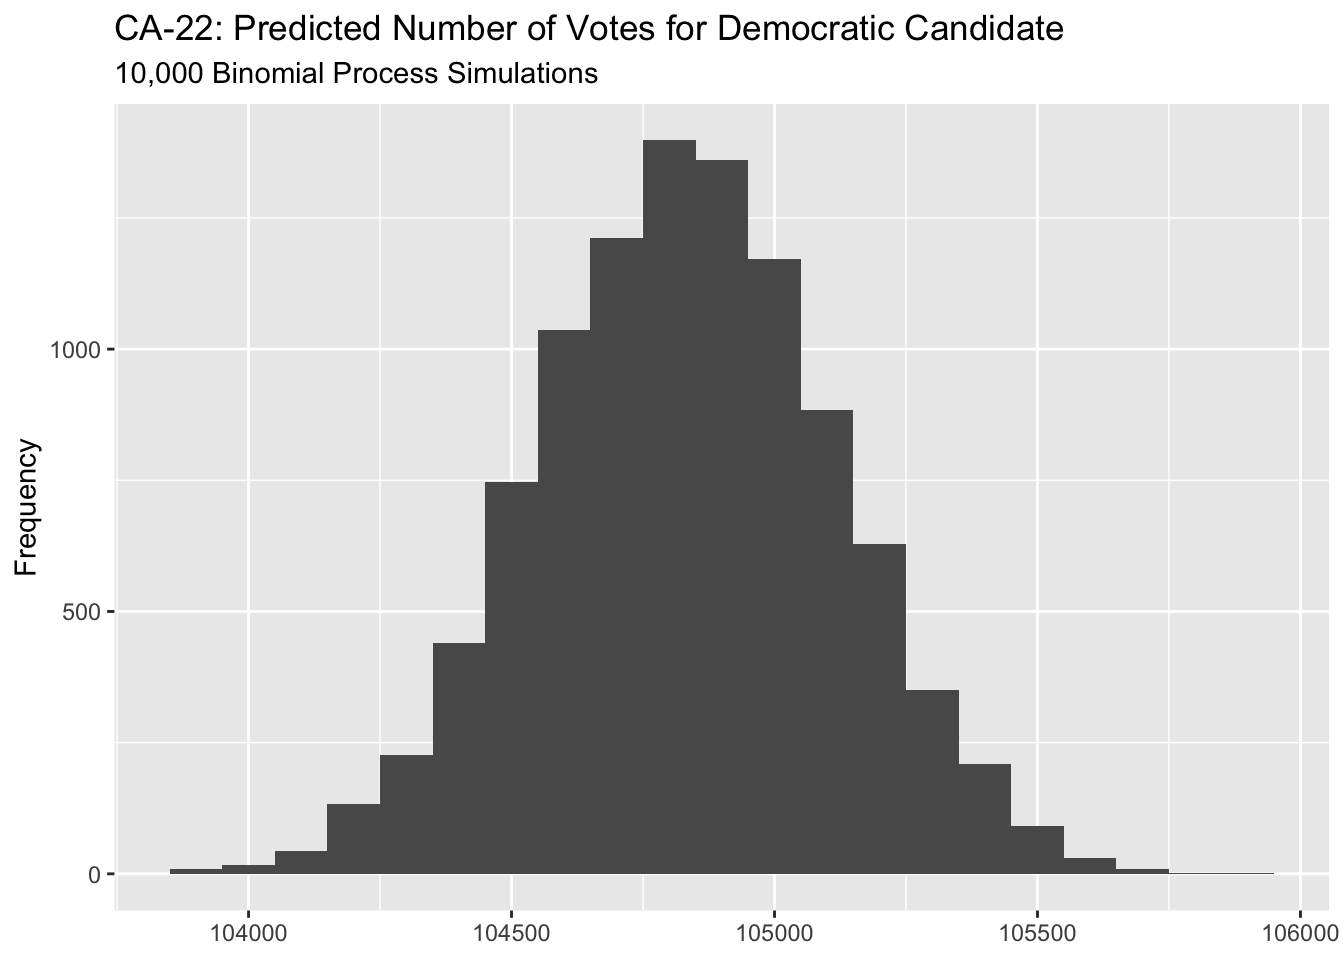
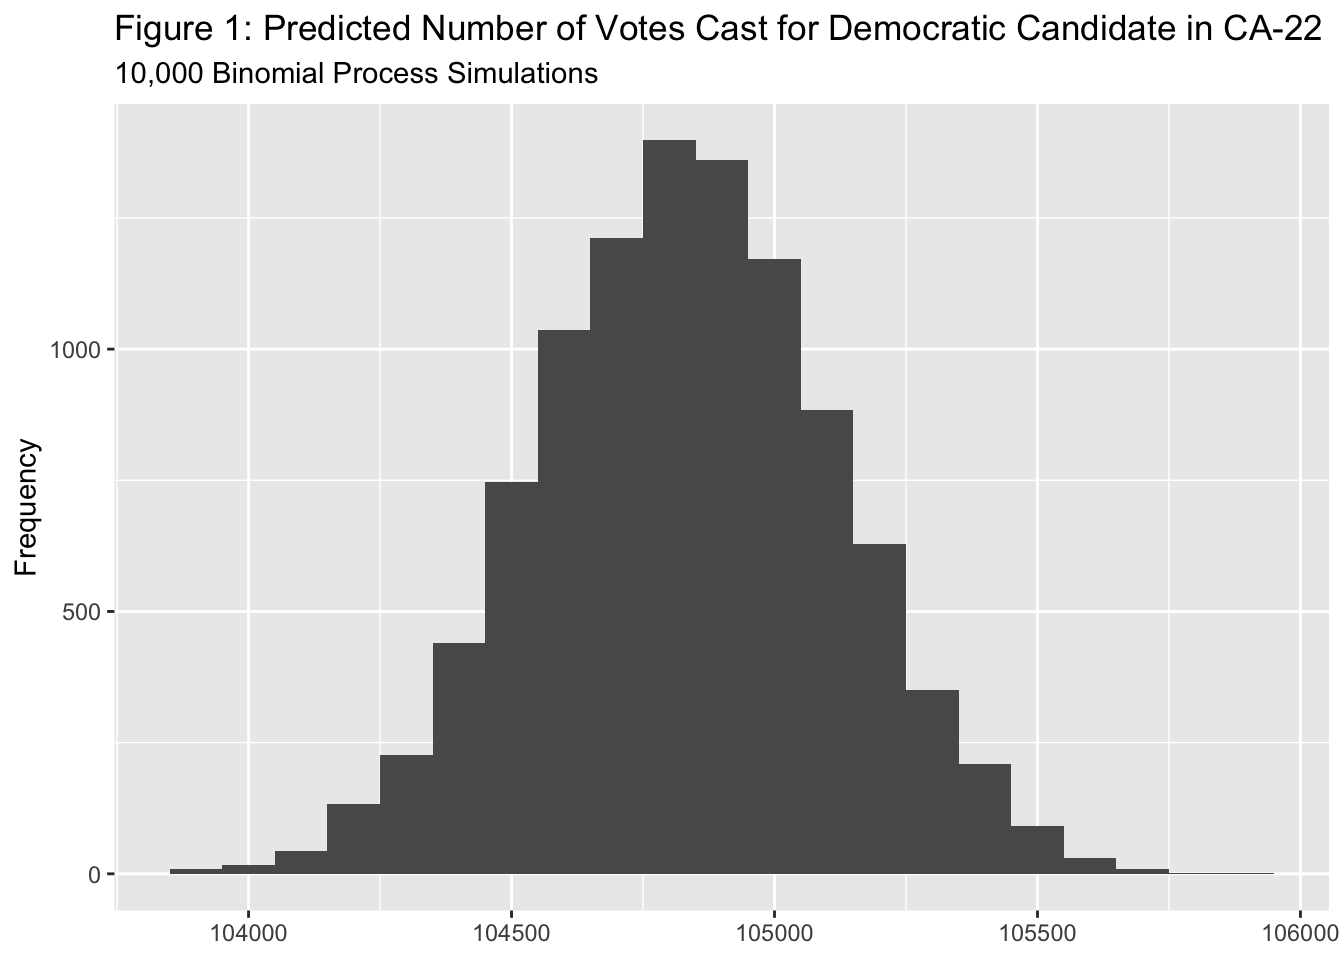
post 06

Changed region(s): [[0.0938, 0.0, 0.9688, 0.0625]]

diff --git a/content/posts/06-ground-game/index.html b/content/posts/06-ground-game/index.html
@@ -7,22 +7,49 @@ output: html_document
 
 
 
-<div id="predicted-number-of-democratic-seats" class="section level2">
-<h2>Predicted Number of Democratic Seats</h2>
-<p>The data on the volume of TV ads was retrieved from the data that was compiled by Kantar/CMAG and analyzed by the Wesleyan Media Project (2022). This dataset shows the volume of TV ads aired between September 19 and October 2 in 53 House districts.</p>
-<p>Ballotpedia (2022)</p>
+<div id="probabilistic-models" class="section level2">
+<h2>Probabilistic Models</h2>
+<p>In Blog Post 05, I built two models: in the first model, I predicted the popular vote share at the nation level, and in the second model, I predicted how the popular vote at the nation level translates into district-level vote shares. In this blog post, I turn the second model into a probabilistic model.</p>
+<p>As I demonstrated in Figure 2 in Blog Post 05, a linear regression model can yield predicted values that lie outside the support (i.e. 0 to 100). Thus, by using a binomial logistic model, I will predict the probability that a voter in a certain district will vote for the Democratic candidate. I use data from the 2012 to 2018 elections, and the independent variables are the following.</p>
+<ul>
+<li>Democratic popular vote share at the national level
+<ul>
+<li>I predict that the national-level Democratic vote share has an impact on the district-level Democratic vote share.</li>
+</ul></li>
+<li>Expert ratings
+<ul>
+<li>I use this as a proxy for polling data. Polling data is not useful for my model because high-quality polling data is not readily available for most districts, especially for the 2012/2014 elections. Expert ratings are available for every competitive district for all elections between 2012 and 2018.</li>
+<li>For non-competitive districts where ratings were unavailable, I make the assumption that the actual outcome was what the experts had expected before the election. (i.e. If a Democrat won in a district where ratings were not available, I assume that the experts had predicted that the Democratic candidate would handily win). This is a valid assumption because experts focus on the competitive districts, meaning that the districts where experts did not make predictions were safe seats.</li>
+<li>I took the average of the ratings issued by the Cook Political Report, Rothenberg Political Report (Inside Elections), and Sabato’s Crystal Ball. The ratings were converted into a 7-point scale, with 7 being “Solid Republican” and 1 being “Solid Democratic.” Note that this is the opposite of the scale I used for Blog Post 05.</li>
+</ul></li>
+<li>Democratic TV ads (log of Dem:Rep ratio)
+<ul>
+<li>Whereas I calculated the share of ads run by Democrats in Blog Post 05, in this blog post, I calculate the ratio of Democratic vs Republican ads and take the natural log of it. This is a better approach because in some districts, one campaign overwhelmingly airs more ads than the other campaign. Taking the natural log ensures that we capture this skewed distribution.</li>
+<li>When one campaign ran ads but the other campaign did not, I made the hypothetical assumption that the latter aired one ad. Without this adjustment, the log of the ratio would be infinity.</li>
+<li>When neither campaign ran ads, the variable is held at 0.</li>
+</ul></li>
+<li>Democratic incumbent</li>
+</ul>
+<p>As seen in Table 1, the nation-level Democratic popular vote share and expert ratings have a statistically significant impact on the probability of a Democratic vote. The signs of the coefficients make sense: the better the Democrats perform nationwide, the more likely a voter is to vote for a Democrat in their district. Also, the more favorable the expert ratings are to Republicans, the less likely a voter is to vote for a Democrat in their district. The McFadden’s R-squared is 0.924.</p>
+<p><img src="table1.png" /></p>
+</div>
+<div id="predictions-distribution-of-outcomes" class="section level2">
+<h2>Predictions: Distribution of Outcomes</h2>
+<p>Next, I predicted the probability of a Democratic vote in each district and obtained a distribution of outcomes by hypothetically drawing 10,000 voters from the district’s CVAP.</p>
+<p>I used data compiled by Dave’s Redistricting (2022) to calculate the size of the CVAP for each district to better take into account redistricting. While many datasets estimate the size of the CVAP based on the pre-redistricting districts, the data compiled by Dave’s Redistricting (2022) is aggregated to the post-redistricting district-level. I used data compiled by Kantar/CMAG and analyzed by the Wesleyan Media Project (2022) to estimate the number of ads aired in each district, and I used data available on Ballotpedia (2022) to calculate the average of the ratings issued by the Cook Political Report, Inside Elections, and Sabato’s Crystal Ball.</p>
+<p>As seen in Figure 1, the predicted number of Democratic votes in California’s 22nd District, where the predicted probability of a Democratic vote is 0.264, shows a degree of variation. This variation may better reflect reality than a point-estimate: campaigning on the ground may increase turnout, especially in highly targeted areas (Darr &amp; Levendusky, 2014; Enos &amp; Fowler 2018).</p>
 <p><img src="{{< blogdown/postref >}}index_files/figure-html/CA%2022%20distribution-1.png" width="672" /></p>
+<p>However, overall, the predictions seem to point to the limitations of this model. The geofacet plot showing the predicted number of Democratic votes for the districts in Arizona suggests that my model may not adequately capture the variation in potential outcomes (Figure 2). Even after taking the natural log, the predicted number of Democratic votes clustered in a very small range.</p>
 <p><img src="{{< blogdown/postref >}}index_files/figure-html/faceted%20histogram-1.png" width="672" /></p>
+<p>This could be because my prediction is heavily dependent on expert ratings, which are merely averages of a 7-point scale and thus do not have much variation. Alternatively, the lack of variation may simply reflect the fact that most races are not competitive. As seen in Figure 3, the predicted probability of a Democratic victory in most districts is either close to 0 or 1. Even after excluding the predictions for safe seats (the districts where the average of the expert ratings are either 7 or 1), a considerable number of races are expected to have an extremely high chance of a Democratic or Republican victory (Figure 4). Overall, there are 201 districts where the predicted probability of a Democratic vote/victory is over 50%. This is slightly less than 206, which is the median of the prediction based on the model in Blog Post 05.</p>
 <p><img src="{{< blogdown/postref >}}index_files/figure-html/predicted%20probability-1.png" width="672" /></p>
 <p><img src="{{< blogdown/postref >}}index_files/figure-html/exclude%20safe%20seats-1.png" width="672" /></p>
 <div id="references" class="section level3">
 <h3>References</h3>
-<p>Bafumi, J., Erikson, R., &amp; Wlezien, C. (2018). Forecasting the 2018 Midterm Election using National Polls and District Information. <em>PS: Political Science &amp; Politics, 51</em>(S1), 7-11. <a href="doi:10.1017/S1049096518001579" class="uri">doi:10.1017/S1049096518001579</a></p>
-<p>Ballotpedia. (2018). United States House of Representatives elections, 2018. <a href="https://ballotpedia.org/United_States_House_of_Representatives_elections,_2018" class="uri">https://ballotpedia.org/United_States_House_of_Representatives_elections,_2018</a></p>
 <p>Ballotpedia. (2022). United States Congress elections, 2022. <a href="https://ballotpedia.org/United_States_Congress_elections,_2022" class="uri">https://ballotpedia.org/United_States_Congress_elections,_2022</a></p>
-<p>Cook Political Report. (2022). PVI Map and District List. <a href="https://www.cookpolitical.com/cook-pvi/2022-partisan-voting-index/district-map-and-list" class="uri">https://www.cookpolitical.com/cook-pvi/2022-partisan-voting-index/district-map-and-list</a></p>
-<p>Gerber, A.S., Gimpel, J. G., Green, D. P., &amp; Shaw, D. R. (2011). How Large and Long-lasting Are the Persuasive Effects of Televised Campaign Ads? Results from a Randomized Field Experiment. <em>American Political Science Review, 105</em>(1), 135–150. <a href="https://doi.org/10.1017/S000305541000047X" class="uri">https://doi.org/10.1017/S000305541000047X</a></p>
-<p>Huber, G.A. &amp; Arceneaux, K. (2007). Identifying the Persuasive Effects of Presidential Advertising. <em>American Journal of Political Science, 51</em>(4), 957–977. <a href="https://doi.org/10.1111/j.1540-5907.2007.00291.x" class="uri">https://doi.org/10.1111/j.1540-5907.2007.00291.x</a></p>
+<p>Darr, J.P., &amp; Levendusky, M. S. (2014). Relying on the Ground Game. <em>American Politics Research, 42</em>(3), 529–548. <a href="https://doi.org/10.1177/1532673X13500520" class="uri">https://doi.org/10.1177/1532673X13500520</a></p>
+<p>Dave’s Redistricting. (2022). <a href="https://davesredistricting.org/maps#home" class="uri">https://davesredistricting.org/maps#home</a></p>
+<p>Enos, R.D., &amp; Fowler, A. (2018). Aggregate Effects of Large-Scale Campaigns on Voter Turnout. <em>Political Science Research and Methods, 6</em>(4), 733–751. <a href="https://doi.org/10.1017/psrm.2016.21" class="uri">https://doi.org/10.1017/psrm.2016.21</a></p>
 <p>Wesleyan Media Project. (2022, October 6). Democrats Out-Pacing GOP in Senate Races. <a href="https://mediaproject.wesleyan.edu/releases-100622/" class="uri">https://mediaproject.wesleyan.edu/releases-100622/</a></p>
 </div>
 </div>
